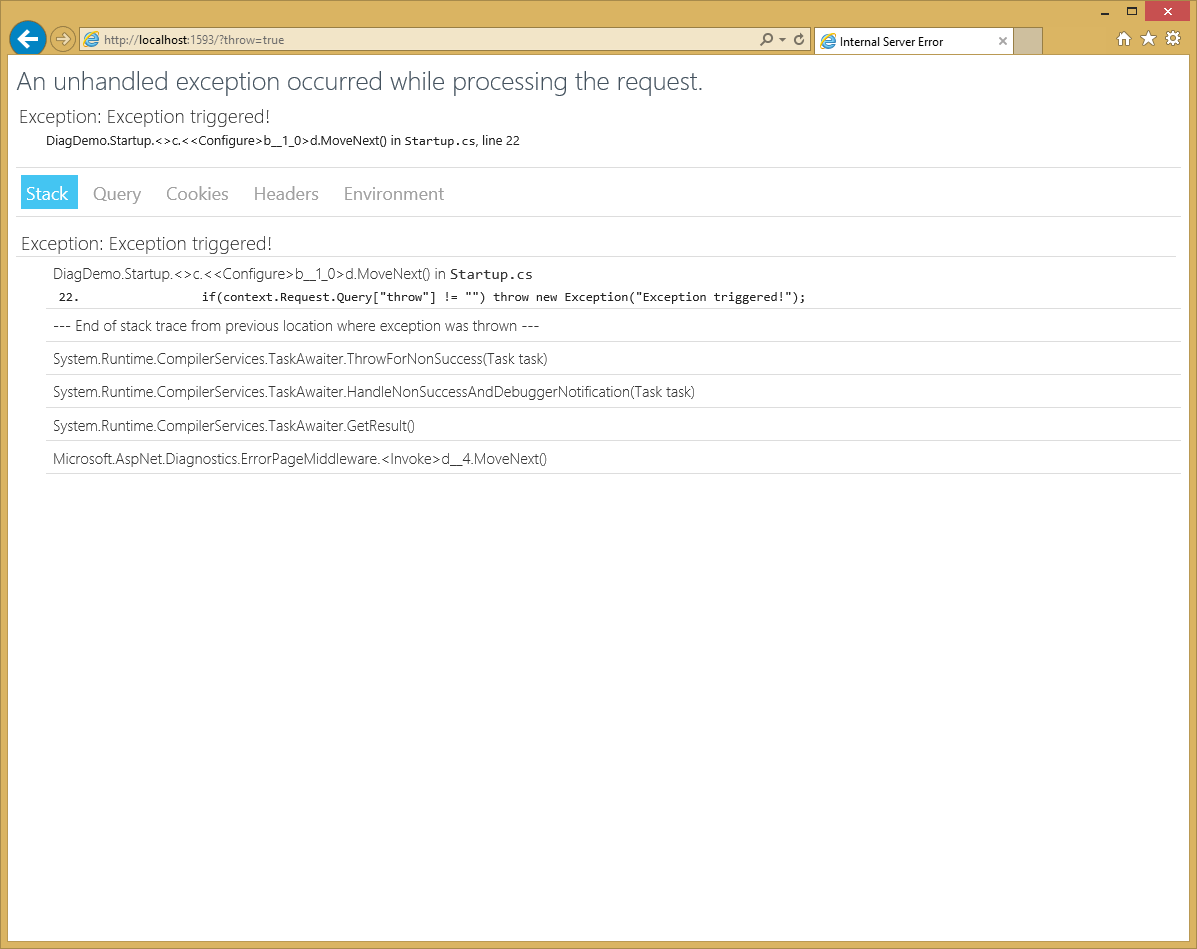
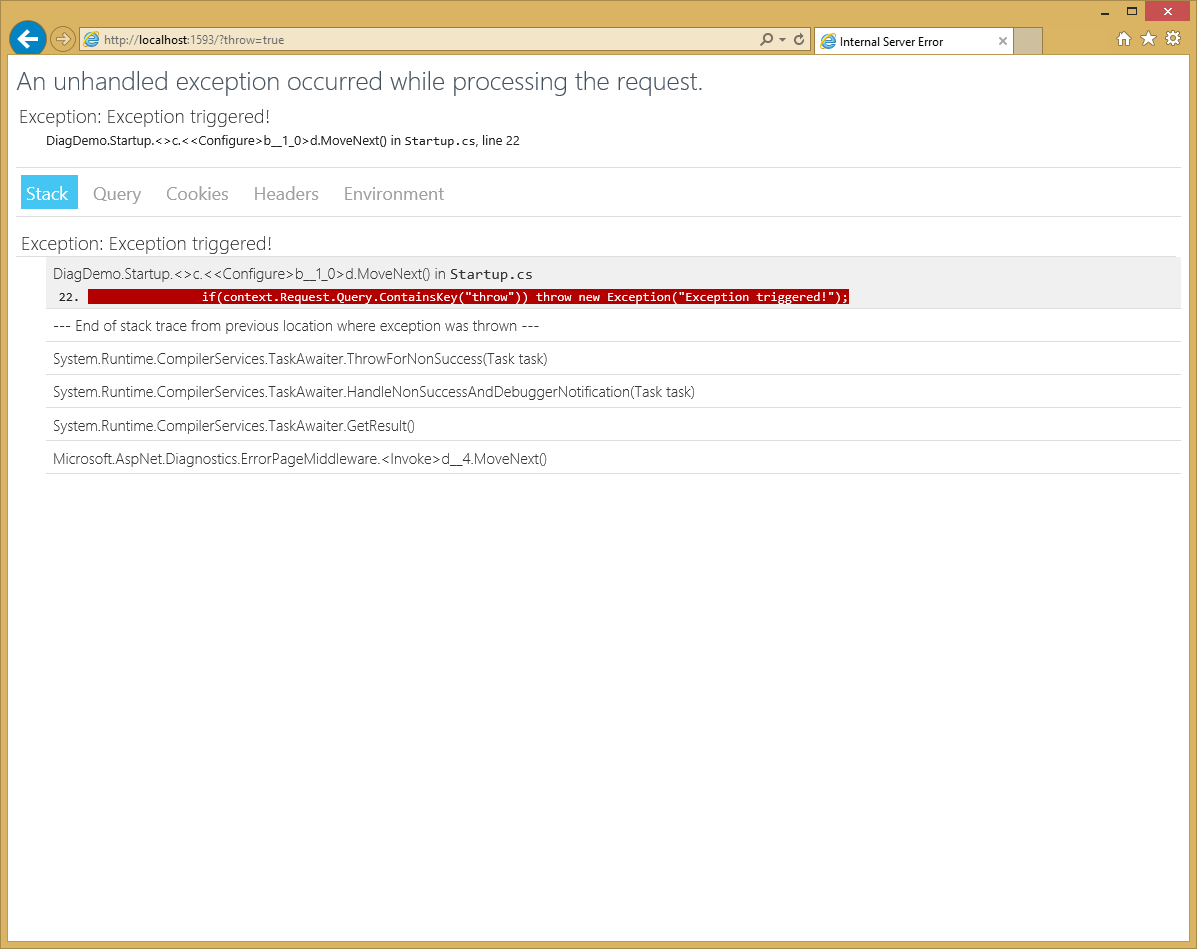
Documenting error page implementation - it doesn't appear to be fully implemented yet in the source.

Changed region(s): [[0.0618, 0.3056, 0.7109, 0.3361]]

diff --git a/docs/fundamentals/diagnostics/sample/src/DiagDemo/Startup.cs b/docs/fundamentals/diagnostics/sample/src/DiagDemo/Startup.cs
@@ -19,7 +19,7 @@ namespace DiagDemo
 
             app.Run(async (context) =>
             {
-                if(context.Request.Query["throw"] != "") throw new Exception("Exception triggered!");
+                if(context.Request.Query.ContainsKey("throw")) throw new Exception("Exception triggered!");
                 await context.Response.WriteAsync("Hello World!");
             });
         }

diff --git a/docs/fundamentals/diagnostics.rst b/docs/fundamentals/diagnostics.rst
@@ -24,7 +24,7 @@ In ASP.NET 5, you configure the pipeline for each request in the ``Startup`` cla
 	:linenos:
 	:emphasize-lines: 2,18
 
-The above code, which is built from the ASP.NET 5 Empty Application template, includes simple mechanism for creating an exception on line 22. If a request includes a non-empty querystring parameter for the variable ``throw``, an exception will be thrown. Comment out line 18 and trigger an exception, so you can see the default ASP.NET behavior (without an error page):
+The above code, which is built from the ASP.NET 5 Empty Application template, includes simple mechanism for creating an exception on line 22. If a request includes a non-empty querystring parameter for the variable ``throw``, an exception will be thrown. Comment out line 18 and trigger an exception, so you can see the default ASP.NET behavior (without an error page) for the specified web server (in this case IIS Express):
 
 .. image:: diagnostics/_static/oops-500.png
 
@@ -41,7 +41,17 @@ The next tab shows the contents of the Querystring collection, if any:
 
 .. image:: diagnostics/_static/errorpage-query.png
 
+In this case, you can see the value of the ``throw`` parameter that was passed to this request. This request didn't have any cookies, but if it did, they would appear on the Cookies tab. You can see the headers that were passed, here:
 
+.. image:: diagnostics/_static/errorpage-headers.png
+
+Finally, any environment variables defined for the server environment would be displayed on the Environment tab.
+
+.. note:: In the current pre-release build, both the Cookies and Environment sections of the ErrorPage are not yet enabled. `View ErrorPage Source <https://github.com/aspnet/Diagnostics/blob/dev/src/Microsoft.AspNet.Diagnostics/Views/ErrorPage.cshtml>`_.
+
+In most cases, you will not want to display detailed stack traces and environment settings in a production setting. The error page will only display detailed information if the ``ASPNET_ENV`` environment variable is set to DEVELOPMENT (which is the default). You can also configure this behavior by including a file named ``Microsoft.AspNet.Diagnostics.ini`` in the root of your web project. With ``ASPNET_ENV`` set to PRODUCTION, the error page displayed is:
+
+(TODO)
 
 The runtime info page
 ---------------------
